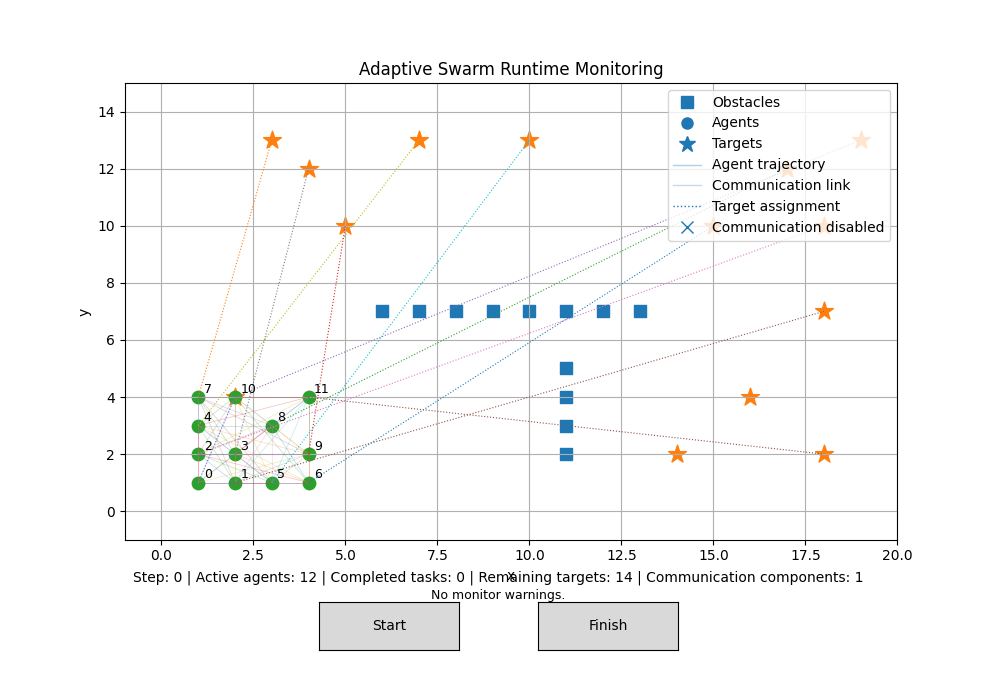
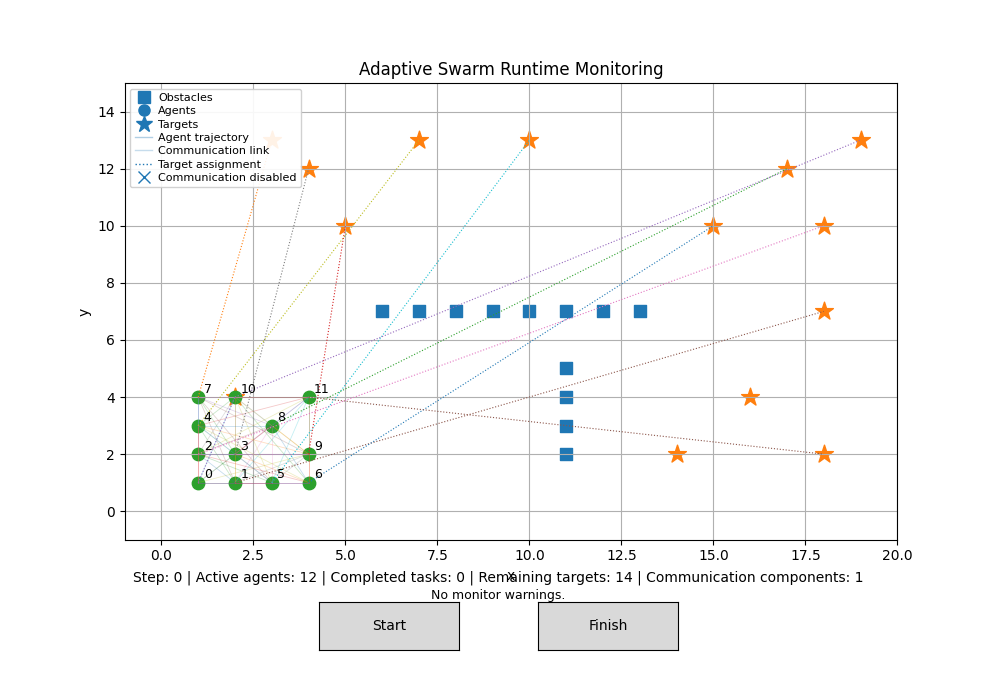
moved legend to the left

Changed region(s): [[0.6841, 0.1214, 0.9017, 0.3642], [0.1244, 0.1214, 0.3109, 0.2731], [0.8395, 0.1821, 0.8706, 0.2124]]

diff --git a/swarm/interactive_visualization.py b/swarm/interactive_visualization.py
@@ -234,4 +234,13 @@ class InteractiveSwarmView:
             Line2D([0], [0], marker="x", linestyle="", markersize=8, label="Communication disabled"),
         ]
 
-        self.axis.legend(handles=legend_items, loc="upper right")
+        self.axis.legend(
+            handles=legend_items,
+            loc="upper left",
+            fontsize=8,
+            framealpha=0.9,
+            borderpad=0.4,
+            labelspacing=0.3,
+            handlelength=1.6,
+            handletextpad=0.5,
+        )